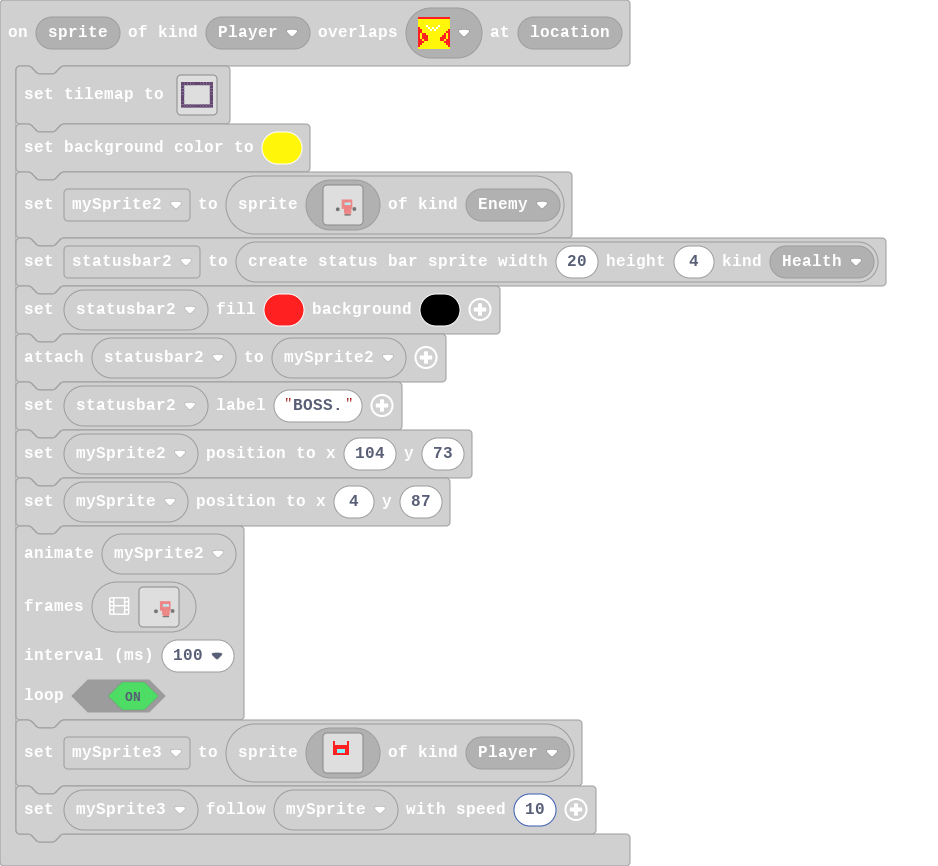
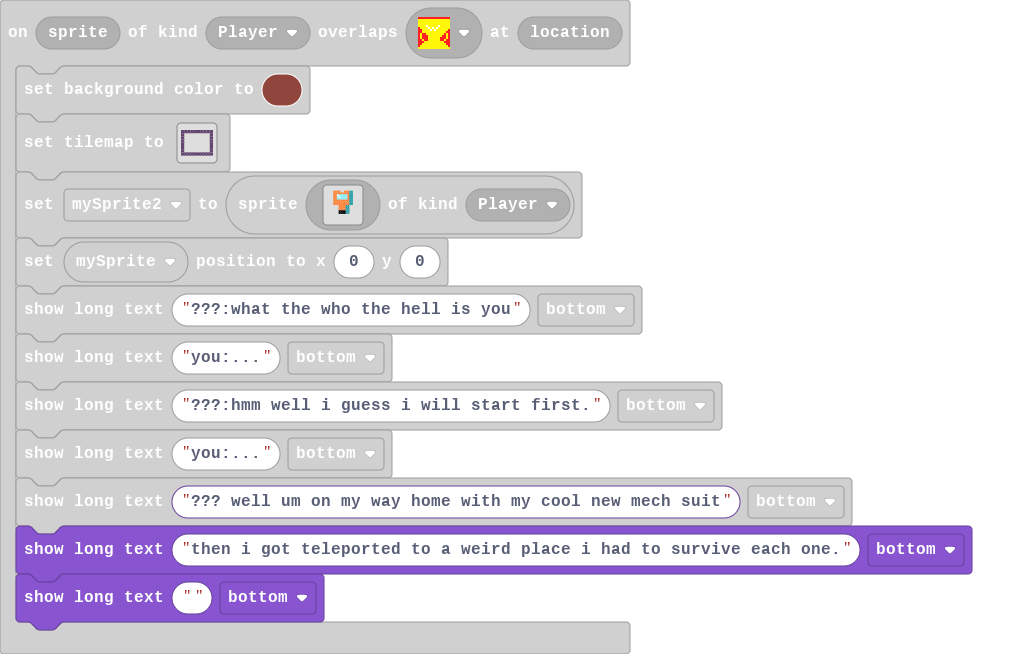
Update main.blocks, main.ts, images.g.ts

diff --git a/images.g.ts b/images.g.ts
@@ -23,108 +23,6 @@ namespace myImages {
 . . . . . . . . . . . . . . . . 
 . . . . . . . . . . . . . . . . 
 `;
-            case "image2":return img`
-....................................................................................................
-....................................................................................................
-....................................................................................................
-....................................................................................................
-....................................................................................................
-....................................................................................................
-....................................................................................................
-....................................................................................................
-....................................................................................................
-....................................................................................................
-....................................................................................................
-....................................................................................................
-....................................................................................................
-....................................................................................................
-....................................................................................................
-....................................................................................................
-....................................................................................................
-....................................................................................................
-....................................................................................................
-....................................................................................................
-....................................................................................................
-....................................................................................................
-....................................................................................................
-....................................................................................................
-....................................................................................................
-....................................................................................................
-....................................................................................................
-....................................................................................................
-....................................................................................................
-....................................................................................................
-....................................................................................................
-....................................................................................................
-....................................................................................................
-..............................................222222222222222222222222222222222.....................
-..............................................222222222222222222222222222222222.....................
-..............................................222222222222222222222222222222222.....................
-..............................................222222222222222222222222222222222.....................
-..............................................222222222222222222222222222222222.....................
-..............................................222222222222222222222222222222222.....................
-..............................................222222222222222222222222222222222.....................
-..............................................222222222222222222222222222222222.....................
-..............................................222222222222222222222222222222222.....................
-..............................................222222222999999999999999999922222.....................
-..............................................222222222999999999999999111922222.....................
-..............................................222222222999999999999999191922222.....................
-..............................................222222222999999999999999191922222.....................
-..............................................222222222999999999999999111922222.....................
-..............................................222222222999999999999999999922222.....................
-..............................................222222222999999999999999999922222.....................
-..............................................222222222999999999999999999922222.....................
-..............................................222222222222222222222222222222222.....................
-..............................................222222222222222222222222222222222.....................
-..............................................222222222222222222222222222222222.....................
-..............................................222222222222222222222222222222222.....................
-..............................................222222222222222222222222222222222.....................
-..............................................222222222222222222222222222222222.....................
-..............................................222222222222222222222222222222222.....................
-..............................................222222222222222222222222222222222...fffffff...........
-..............................fffffff.........222222222222222222222222222222222..fffffffff..........
-.............................fffffffff........222222222222222222222222222222222.fffffffffff.........
-............................fffffffffff.......222222222222222222222222222222222.fffffffffff.........
-............................fffffffffff.......222222222222222222222222222222222.fffffffffff.........
-............................fffffffffff..............22222222222222222222222....fffffffffff.........
-............................fffffffffff..............22222222222222222222222....fffffffffff.........
-............................fffffffffff..............22222222222222222222222....fffffffffff.........
-............................fffffffffff..............22222222222222222222222....fffffffffff.........
-............................fffffffffff..............22222222222222222222222.....fffffffff..........
-.............................fffffffff...............22222222222222222222222......fffffff...........
-..............................fffffff................22222222222222222222222........................
-.....................................................22222222222222222222222........................
-.....................................................22222222222222222222222........................
-.....................................................22222222222222222222222........................
-.....................................................22222222222222222222222........................
-.....................................................22222222222222222222222........................
-.....................................................22222222222222222222222........................
-.....................................................22222222222222222222222........................
-........................................................22222222222222222222........................
-........................................................22222222222222222...........................
-........................................................22222222222222222...........................
-......................................................ffffffffffffffffffff..........................
-.......................................................ffffffffffffffffffff.........................
-.......................................................fffffffffffffffffff..........................
-.......................................................fffffffffffffffffff..........................
-....................................................................................................
-....................................................................................................
-....................................................................................................
-....................................................................................................
-....................................................................................................
-....................................................................................................
-....................................................................................................
-....................................................................................................
-....................................................................................................
-....................................................................................................
-....................................................................................................
-....................................................................................................
-....................................................................................................
-....................................................................................................
-....................................................................................................
-....................................................................................................
-..............................................................................33333.................
-`;
             case "image5":return img`
 . . . . . . . . . . . . . . . . 
 . . . . 9 9 9 9 9 9 9 9 9 9 9 . 
@@ -139,42 +37,6 @@ namespace myImages {
 . . 9 9 9 9 9 9 9 9 9 9 9 . . . 
 . . . 9 9 9 9 9 9 9 9 9 9 . . . 
 . . . . 9 9 9 9 9 9 9 9 9 9 . . 
-. . . . . . . . . . . . . . . . 
-. . . . . . . . . . . . . . . . 
-. . . . . . . . . . . . . . . . 
-`;
-            case "image6":return img`
-. . . . . . . . . . . . . . . . 
-. 9 9 9 9 9 9 9 9 9 9 9 . . . . 
-9 9 9 9 9 9 9 9 9 9 9 9 9 . . . 
-. . 9 9 9 9 9 9 9 9 9 9 9 9 . . 
-. 9 9 9 9 9 9 9 9 9 9 9 9 9 9 . 
-. . 9 9 9 9 9 9 9 9 9 9 9 9 9 9 
-. . . 9 9 9 9 9 9 9 9 9 9 9 9 9 
-. . 9 9 9 9 9 9 9 9 9 9 9 9 9 9 
-. 9 9 9 9 9 9 9 9 9 9 9 9 9 9 9 
-. 9 9 9 9 9 9 9 9 9 9 9 9 9 9 . 
-. . . 9 9 9 9 9 9 9 9 9 9 9 . . 
-. . . 9 9 9 9 9 9 9 9 9 9 . . . 
-. . 9 9 9 9 9 9 9 9 9 9 . . . . 
-. . . . . . . . . . . . . . . . 
-. . . . . . . . . . . . . . . . 
-. . . . . . . . . . . . . . . . 
-`;
-            case "image3":return img`
-. . . . . . . . . . . . . . . . 
-. . . . . 2 . . . 2 . . . . . . 
-. . . . . 2 2 2 2 2 . . . . . . 
-. . . . . 2 9 2 9 2 . . . . . . 
-. . . . . 2 2 2 2 2 . . . . . . 
-. . . . . 2 f f f 2 . . . . . . 
-. . . . 2 2 2 2 2 2 2 . . . . . 
-. . . 2 5 5 2 2 2 5 5 2 . . . . 
-. . 2 5 5 5 2 2 2 5 5 5 2 . . . 
-. 2 5 5 5 5 2 2 2 5 5 5 5 2 . . 
-. . 5 . 5 . 2 2 2 . 5 . 5 . . . 
-. . . . . . 2 2 2 . . . . . . . 
-. . . . . . . . . . . . . . . . 
 . . . . . . . . . . . . . . . . 
 . . . . . . . . . . . . . . . . 
 . . . . . . . . . . . . . . . . 

diff --git a/main.ts b/main.ts
@@ -33,18 +33,18 @@ controller.B.onEvent(ControllerButtonEvent.Pressed, function () {
 controller.A.onEvent(ControllerButtonEvent.Pressed, function () {
     projectile = sprites.createProjectileFromSprite(img`
         . . . . . . . . . . . . . . . . 
-        . . . . 9 9 9 6 9 9 9 6 6 6 6 . 
-        . . . 9 9 9 6 9 9 9 9 9 6 6 6 6 
-        . . 9 9 9 6 9 9 9 9 9 6 6 6 . . 
-        . 9 9 9 6 9 9 9 9 9 9 9 6 6 6 . 
-        9 9 9 6 9 9 9 9 9 9 9 9 6 6 . . 
-        9 9 6 9 9 9 9 9 9 9 9 6 6 . . . 
-        9 6 9 9 9 9 9 9 9 9 9 9 6 6 . . 
-        6 9 9 9 9 9 9 9 9 9 9 9 6 6 6 . 
-        . 9 9 9 9 9 9 9 9 9 6 6 6 6 6 . 
-        . . 9 9 9 9 9 9 9 6 9 9 6 . . . 
-        . . . 9 9 9 9 9 6 9 9 9 6 . . . 
-        . . . . 9 9 9 6 9 9 9 6 6 6 . . 
+        . . . . 9 9 9 9 9 9 9 9 9 9 9 . 
+        . . . 9 9 9 9 9 9 9 9 9 9 9 9 9 
+        . . 9 9 9 9 9 9 9 9 9 9 9 9 . . 
+        . 9 9 9 9 9 9 9 9 9 9 9 9 9 9 . 
+        9 9 9 9 9 9 9 9 9 9 9 9 9 9 . . 
+        9 9 9 9 9 9 9 9 9 9 9 9 9 . . . 
+        9 9 9 9 9 9 9 9 9 9 9 9 9 9 . . 
+        9 9 9 9 9 9 9 9 9 9 9 9 9 9 9 . 
+        . 9 9 9 9 9 9 9 9 9 9 9 9 9 9 . 
+        . . 9 9 9 9 9 9 9 9 9 9 9 . . . 
+        . . . 9 9 9 9 9 9 9 9 9 9 . . . 
+        . . . . 9 9 9 9 9 9 9 9 9 9 . . 
         . . . . . . . . . . . . . . . . 
         . . . . . . . . . . . . . . . . 
         . . . . . . . . . . . . . . . . 
@@ -80,6 +80,8 @@ scene.onOverlapTile(SpriteKind.Player, assets.tile`myTile4`, function (sprite, l
     game.showLongText("you:...", DialogLayout.Bottom)
     game.showLongText("???:hmm well i guess i will start first.", DialogLayout.Bottom)
     game.showLongText("you:...", DialogLayout.Bottom)
+    game.showLongText("??? well um on my way home with my cool new mech suit", DialogLayout.Bottom)
+    game.showLongText("then i got teleported to a weird place i had to survive each one.", DialogLayout.Bottom)
     game.showLongText("", DialogLayout.Bottom)
 })
 controller.left.onEvent(ControllerButtonEvent.Pressed, function () {
